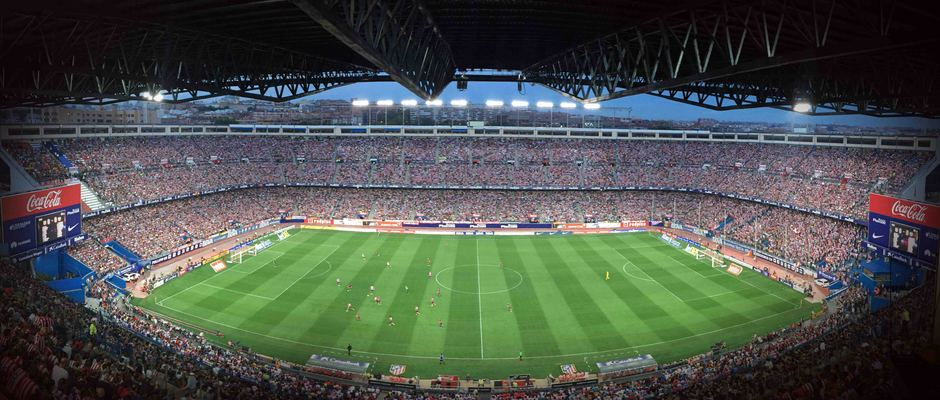
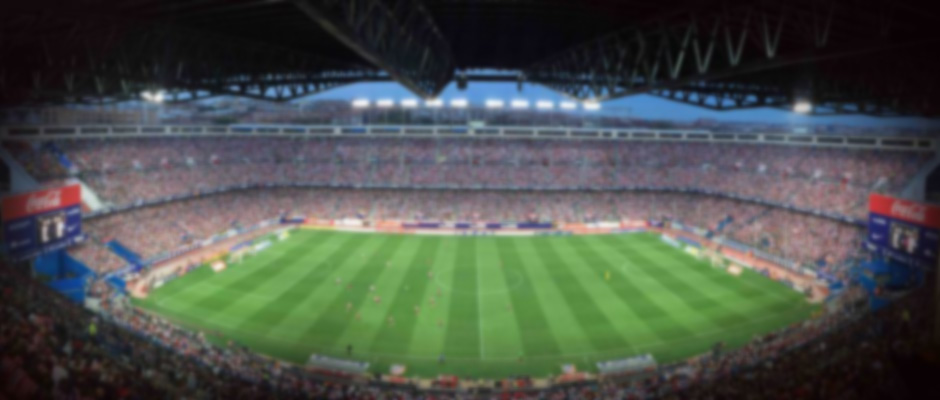
ddd

Changed region(s): [[0.0, 0.09, 0.9872, 1.0], [0.5245, 0.87, 0.5553, 0.9], [0.0309, 0.78, 0.0617, 0.81]]

diff --git a/css/aftermatch.css b/css/aftermatch.css
@@ -5,36 +5,34 @@ body
     font-family:Fertigo;
     
 }
-.gamebg{
-	position:relative;
-}
-.gamebg .menu .backg{
-	margin-top:4%;
-	-webkit-filter: blur(2px);
-  	-moz-filter: blur(2px);
-  	-o-filter: blur(2px);
-  	-ms-filter: blur(2px);
-  	filter: blur(2px);
-  	width:100%;
-  	height:auto;
-  	position:absolute;
+.gamebg {
+	background-image: url('../img/stadium.jpg'); 
+	background-repeat: no-repeat;
+    -webkit-background-size: cover;
+    -moz-background-size: cover;
+    -o-background-size: cover;
+    background-size: 100% auto;
+    margin-top:5%;
+  	z-index:10px; 
 }
 .teamSelection
 {
-	position:absolute;
+	position:relative;
 	width:60%;
 	margin-left:20%;
-	margin-top:4%;
+	padding-bottom:3%;
 }
 .yourTeam{
 	width:30%;
 	display:inline-block;
 	float:left;
+	padding-top:2%;
 }
 .opponent{
 	width:30%;
 	display:inline-block;		
 	float:right;
+	padding-top:2%
 }  
 .teamImg img{
 	width:40%;
@@ -63,10 +61,11 @@ body
 .stats
 {
 	width:30%;
-	margin-top:11%;
-	margin-left:36%;
+	margin-top:13%;
+	margin-bottom:3%;
+	margin-left:6%;
 	color:white;
-	position:absolute;
+	position:relative;
 	display:inline-block;
 	font-size:2.3vw;
 	font-weight:bold;
@@ -75,9 +74,6 @@ body
 .min
 {
 	font-style:italic;
-}
-.result{
-
 }
 .shots
 {

diff --git a/css/game.css b/css/game.css
@@ -11,11 +11,6 @@ html {
     -o-background-size: cover;
     background-size: 100% auto;
     margin-top:5%;
-	/*-webkit-filter: blur(2px);
-  	-moz-filter: blur(2px);
-  	-o-filter: blur(2px);
-  	-ms-filter: blur(2px);
-  	filter: blur(2px);*/
   	z-index:10px; 
 }
 .menuImg{

diff --git a/game/aftermatch.php b/game/aftermatch.php
@@ -70,61 +70,55 @@ require_once('ajax.php');
         <!-- /.container -->
     </nav>
 
-	<div class="gamebg">
-        <div class="menu">
-            <img class='backg' src="../img/stadium.jpg">
-        </div>
-    </div>
- 		<div>
+    	<div class="gamebg">
             <div class='teamSelection'>
-                <div class='yourTeam'>
-                    <div class='teamImg'>
-                       	<img src="../img/<?php echo $team1[0]['id']?>.png">
-                    </div>
-                    <div class='teamShots' id='shotsT1'>
-                    	0
-                    </div>
-                    <div class='teamSaves' id='savesT1'>
-                    	0
-                    </div>
-                    <div class='teamMisses' id='missT1'>
-                    	0
-                    </div>
-                    <div class='wasted' id='wastedT1'>
-                        0
-                    </div>
-                </div> 
-                <div class='stats'>
-                	<div class='result'>
-                		<span id='teamgoal1'>0</span>
-                		-
-                		<span id='teamgoal2'>0</span>
-                	</div>
-                	<div class='min' id='min'>0</div>
-                	<div class='shots'>Shots</div>
-                	<div class='saves'>Saves</div>
-                	<div class='misses'>Misses</div>
-                    <div class='wastes'>Failed attempts</div>
-                </div>  
-                <div class='opponent'>
-                    <div class='teamImg1'>
-                      	<img src="../img/<?php echo $team2[0]['id']?>.png">
-                    </div>
-                    <div class='teamShots' id='shotsT2'>
-                    	0
-                    </div>
-                     <div class='teamSaves' id='savesT2'>
-                    	0
-                    </div>
-                    <div class='teamMisses' id='missT2'>
-                    	0
-                    </div>
-                    <div class='wasted' id='wastedT2'>
-                        0
-                    </div>
-                </div> 
+                    <div class='yourTeam'>
+                        <div class='teamImg'>
+                           	<img src="../img/<?php echo $team1[0]['id']?>.png">
+                        </div>
+                        <div class='teamShots' id='shotsT1'>
+                        	0
+                        </div>
+                        <div class='teamSaves' id='savesT1'>
+                        	0
+                        </div>
+                        <div class='teamMisses' id='missT1'>
+                        	0
+                        </div>
+                        <div class='wasted' id='wastedT1'>
+                            0
+                        </div>
+                    </div> 
+                    <div class='stats'>
+                    	<div class='result'>
+                    		<span id='teamgoal1'>0</span>
+                    		-
+                    		<span id='teamgoal2'>0</span>
+                    	</div>
+                    	<div class='min' id='min'>0</div>
+                    	<div class='shots'>Shots</div>
+                    	<div class='saves'>Saves</div>
+                    	<div class='misses'>Misses</div>
+                        <div class='wastes'>Failed attempts</div>
+                    </div>  
+                    <div class='opponent'>
+                        <div class='teamImg1'>
+                          	<img src="../img/<?php echo $team2[0]['id']?>.png">
+                        </div>
+                        <div class='teamShots' id='shotsT2'>
+                        	0
+                        </div>
+                         <div class='teamSaves' id='savesT2'>
+                        	0
+                        </div>
+                        <div class='teamMisses' id='missT2'>
+                        	0
+                        </div>
+                        <div class='wasted' id='wastedT2'>
+                            0
+                        </div>
+                    </div> 
             </div>
-        </div> 
-		</div> 
-	</body>
+    	</div> 
+    </body>
 </html>
